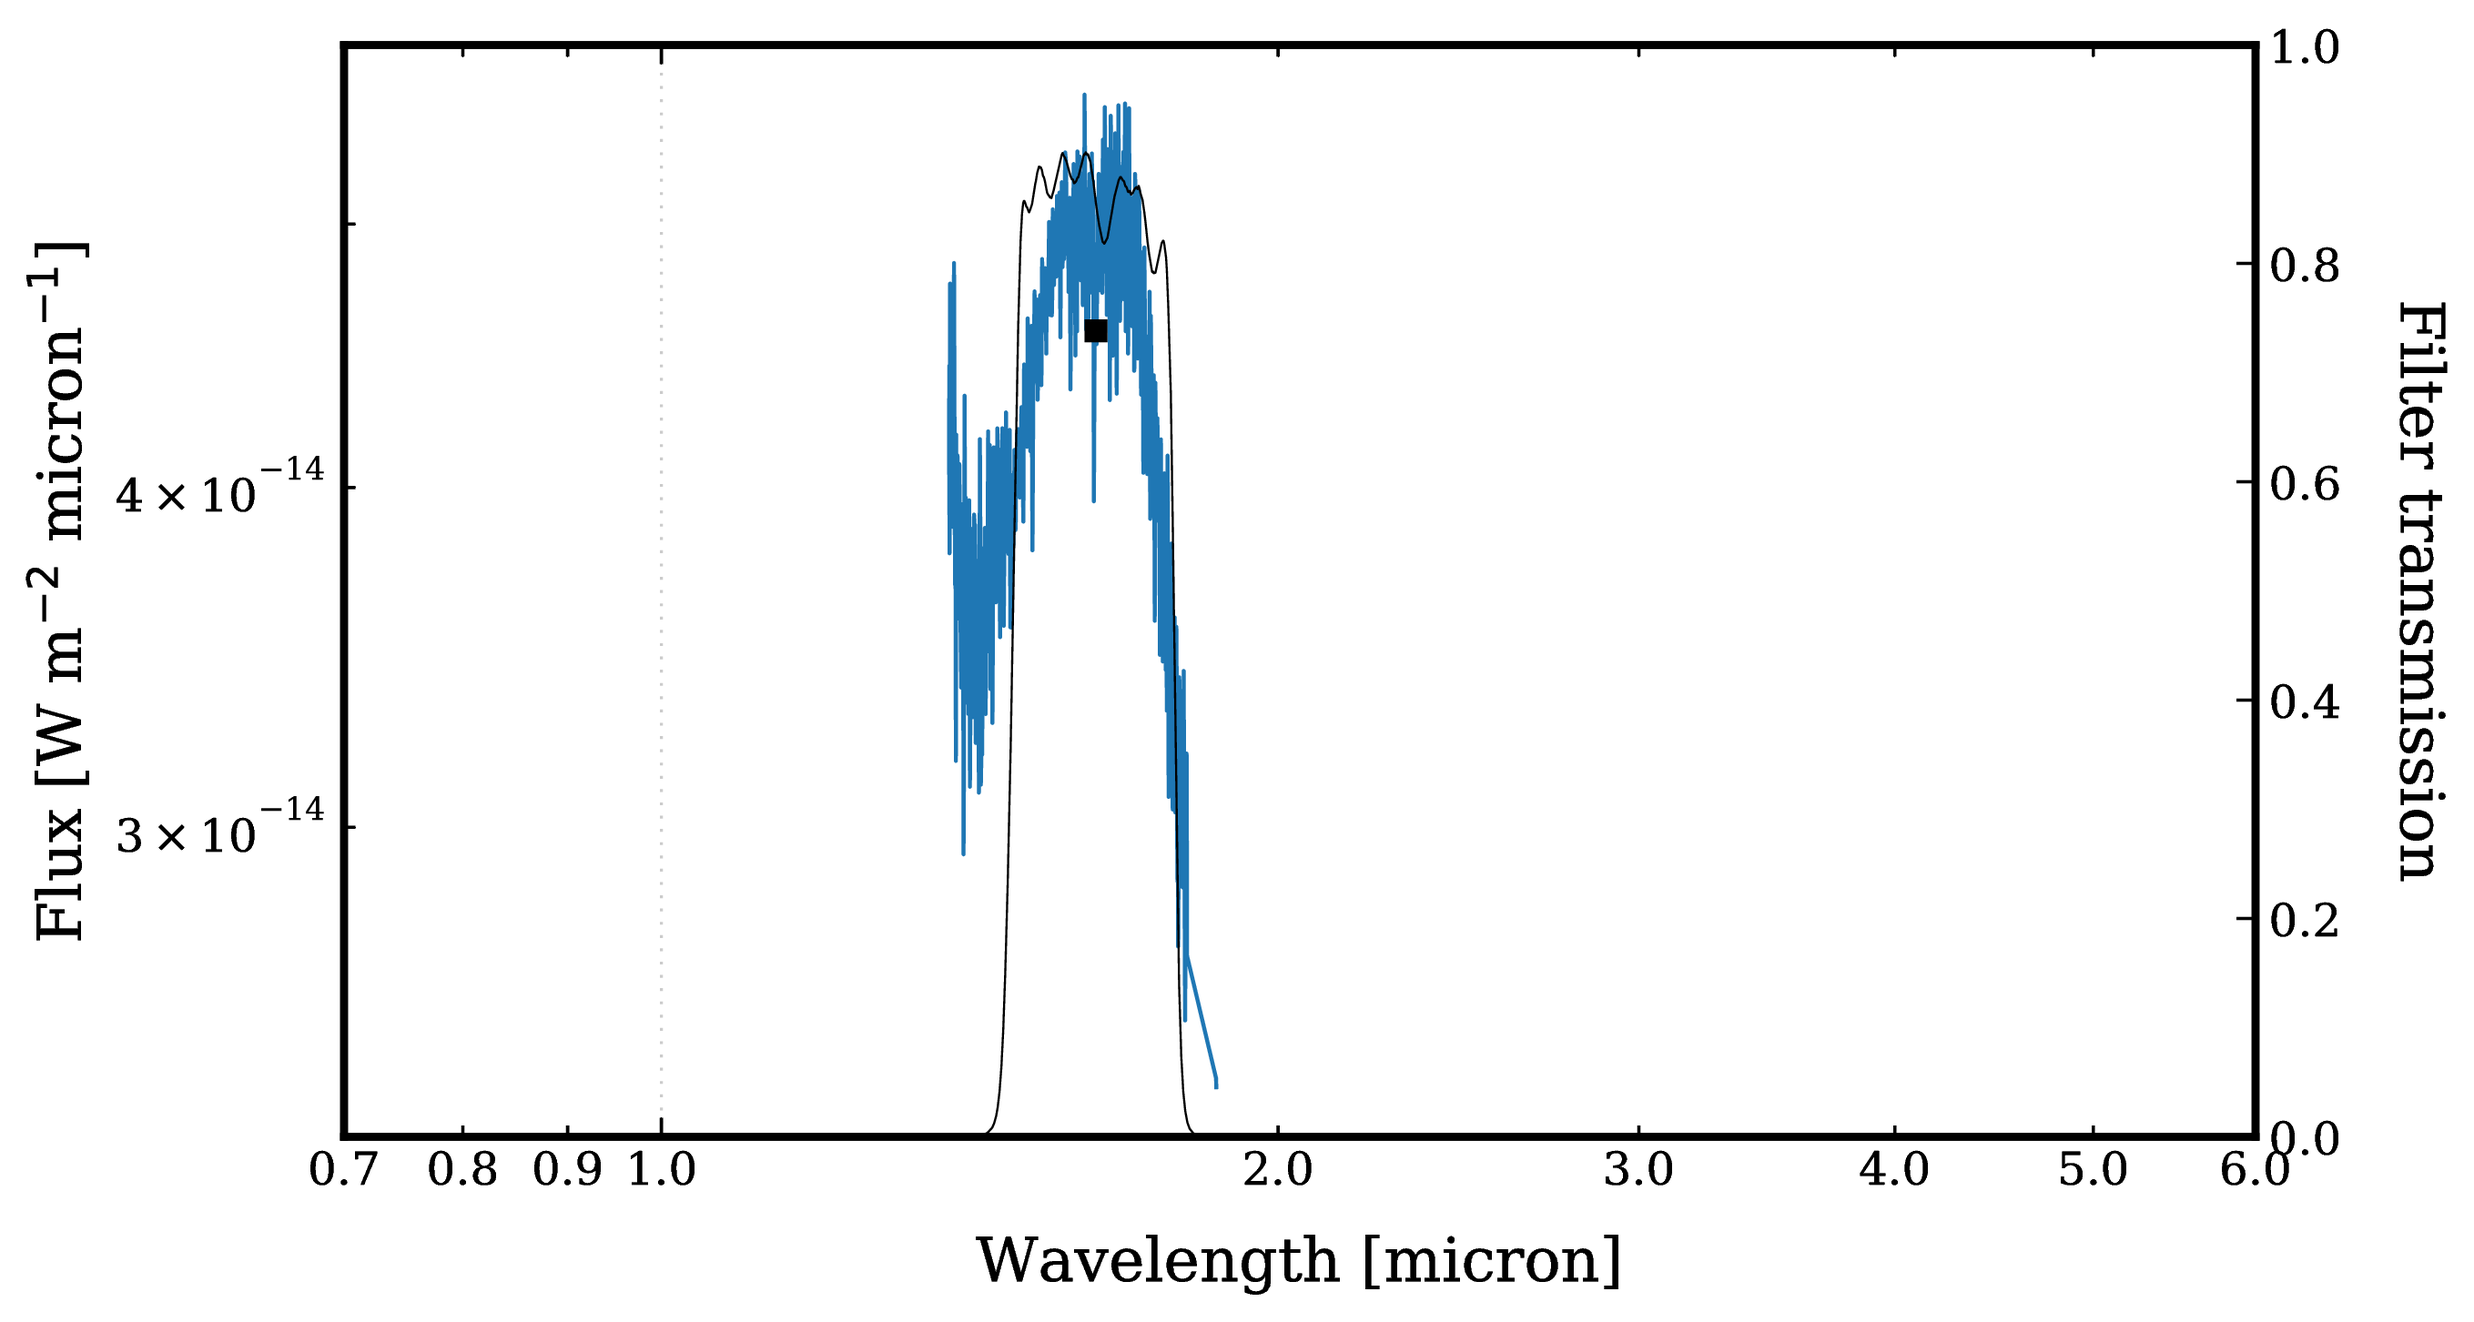
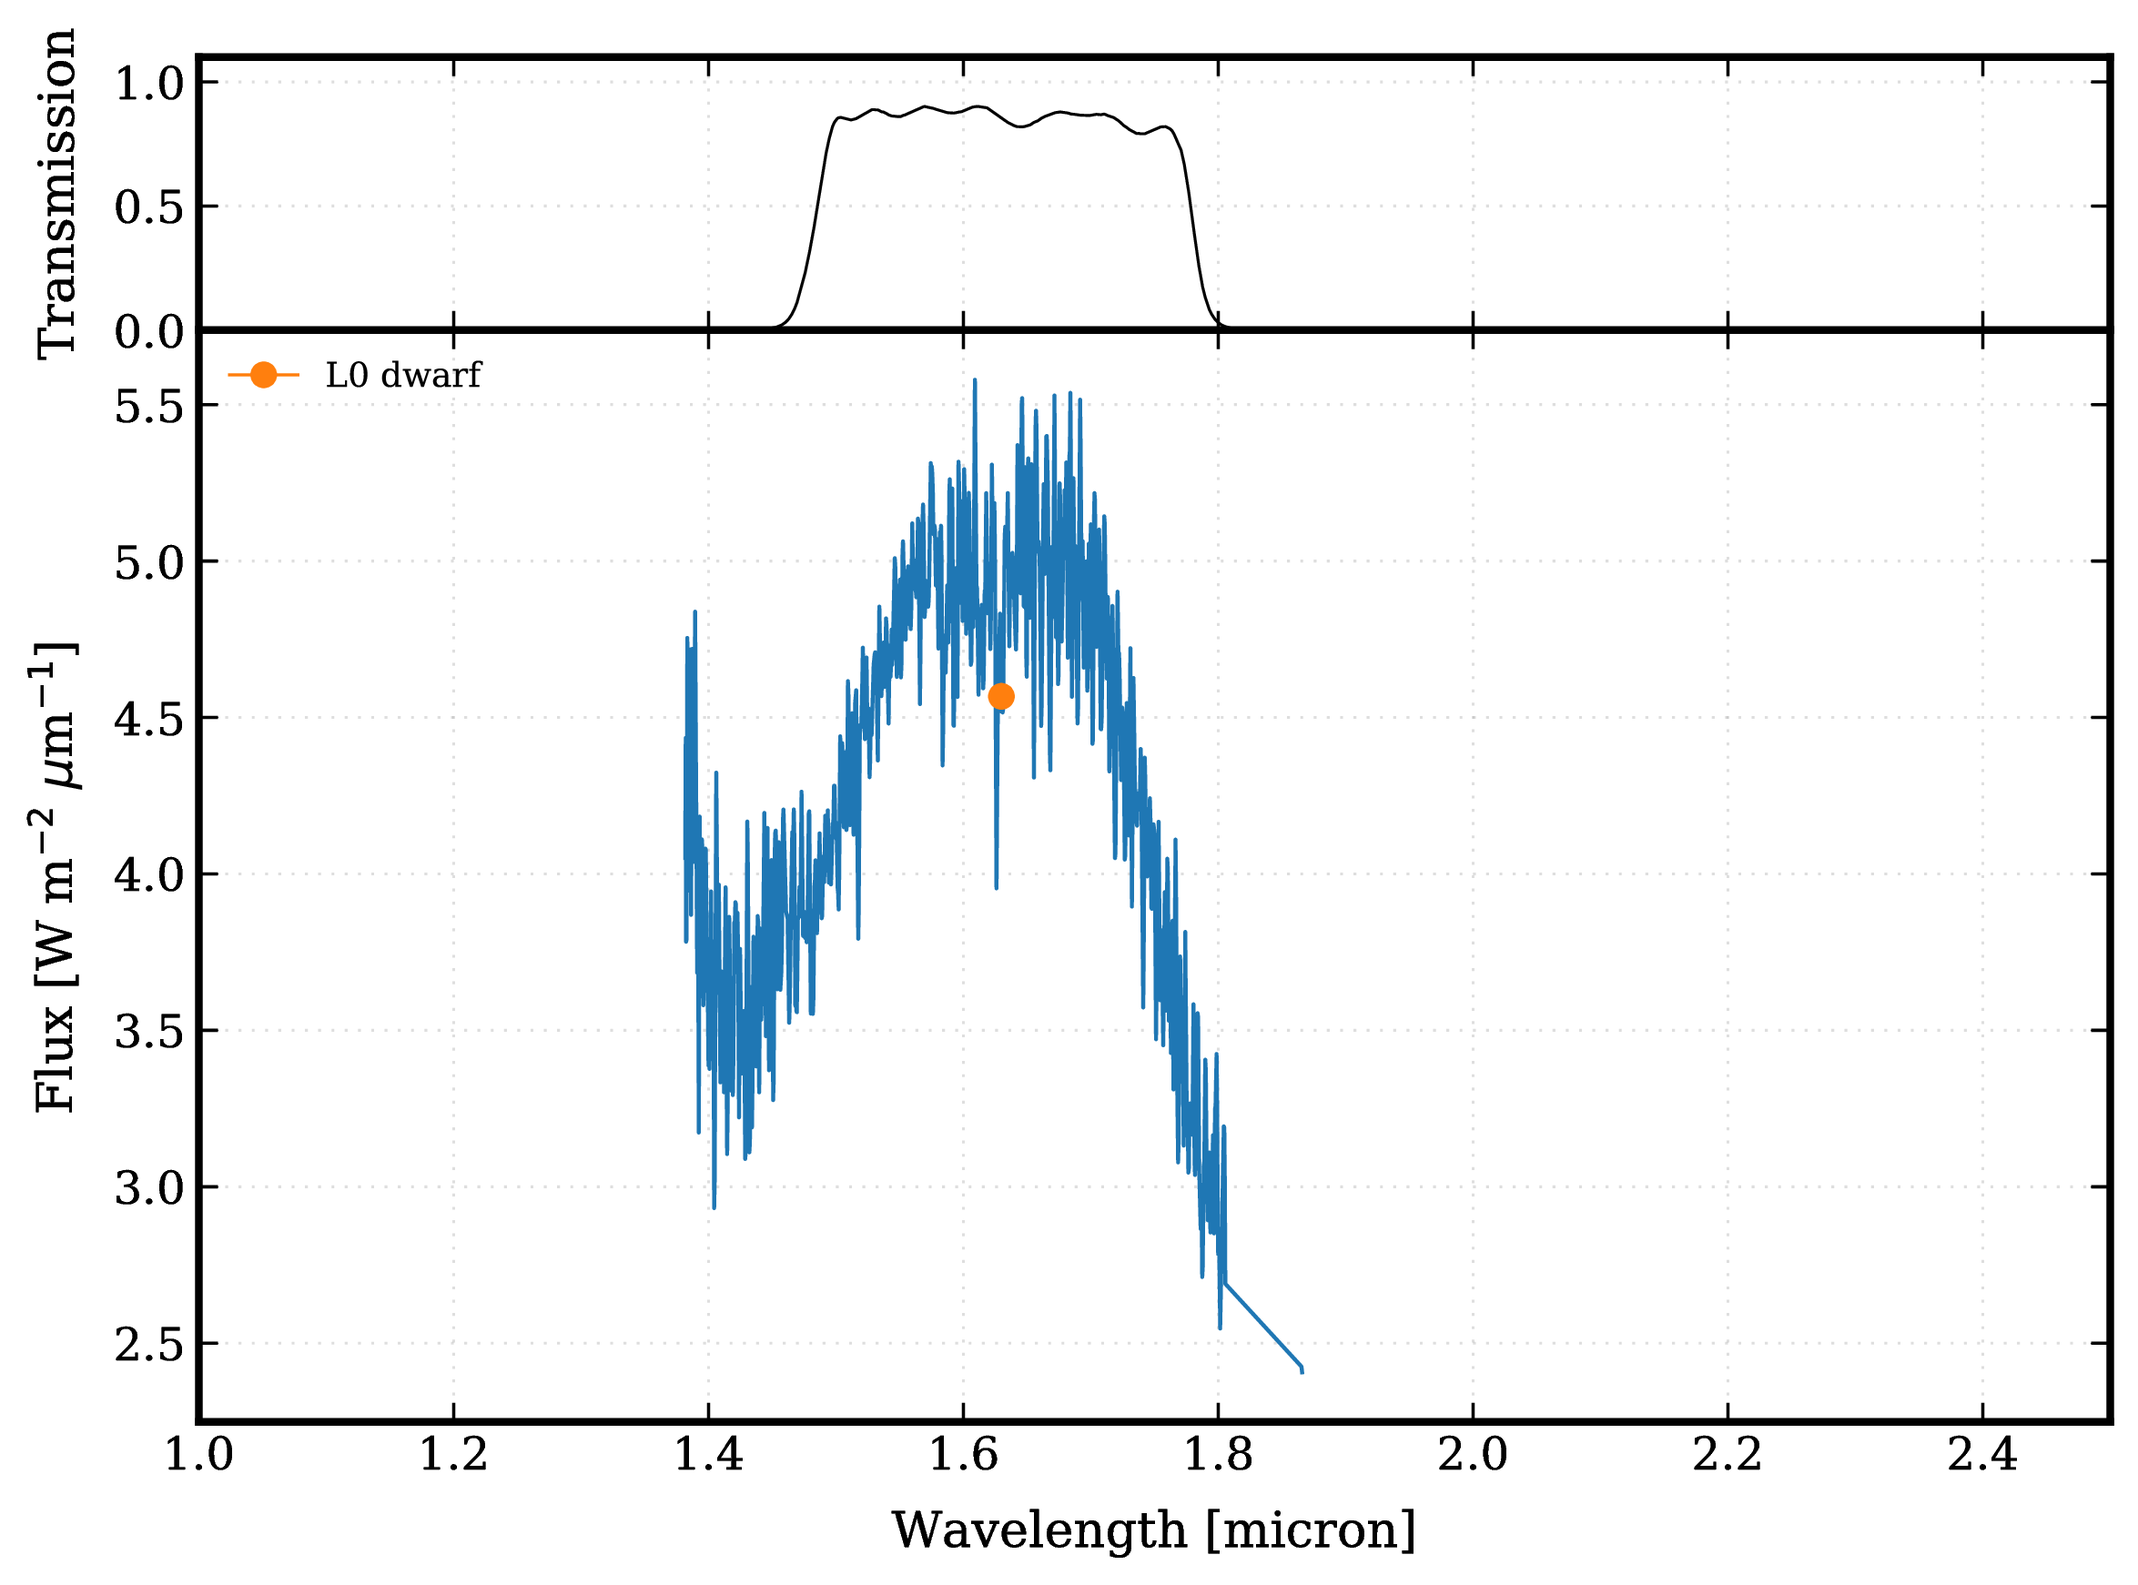
docs

Changed region(s): [[0.0, 0.031, 0.9945, 0.9911], [0.0622, 0.7123, 0.0932, 0.7743], [0.0622, 0.8362, 0.0932, 0.8672]]

diff --git a/species/read/read_colormag.py b/species/read/read_colormag.py
@@ -130,18 +130,18 @@ class ReadColorColor:
 
     def __init__(self,
                  library,
-                 filters_colors):
+                 filters):
         """
         :param library: Photometric libraries.
         :type library: tuple(str, )
-        :param filters_colors:
-        :type filters_colors: tuple(tuple(str, str), tuple(str, str))
+        :param filters:
+        :type filters: tuple(tuple(str, str), tuple(str, str))
 
         :return: None
         """
 
         self.library = library
-        self.filters_colors = filters_colors
+        self.filters = filters
 
         config_file = os.path.join(os.getcwd(), 'species_config.ini')
 
@@ -190,10 +190,10 @@ class ReadColorColor:
                 flag = flag_tmp
                 indices = indices_tmp
 
-                mag1 = np.asarray(h5_file['photometry/'+item+'/'+self.filters_colors[0][0]])
-                mag2 = np.asarray(h5_file['photometry/'+item+'/'+self.filters_colors[0][1]])
-                mag3 = np.asarray(h5_file['photometry/'+item+'/'+self.filters_colors[1][0]])
-                mag4 = np.asarray(h5_file['photometry/'+item+'/'+self.filters_colors[1][1]])
+                mag1 = np.asarray(h5_file['photometry/'+item+'/'+self.filters[0][0]])
+                mag2 = np.asarray(h5_file['photometry/'+item+'/'+self.filters[0][1]])
+                mag3 = np.asarray(h5_file['photometry/'+item+'/'+self.filters[1][0]])
+                mag4 = np.asarray(h5_file['photometry/'+item+'/'+self.filters[1][1]])
 
             else:
                 distance_tmp = np.asarray(h5_file['photometry/'+item+'/distance']) # [pc]
@@ -205,10 +205,10 @@ class ReadColorColor:
                 flag = np.concatenate((flag, flag_tmp), axis=0)
                 indices = np.concatenate((indices, indices_tmp), axis=0)
 
-                mag1_tmp = np.asarray(h5_file['photometry/'+item+'/'+self.filters_colors[0][0]])
-                mag2_tmp = np.asarray(h5_file['photometry/'+item+'/'+self.filters_colors[0][1]])
-                mag3_tmp = np.asarray(h5_file['photometry/'+item+'/'+self.filters_colors[1][0]])
-                mag4_tmp = np.asarray(h5_file['photometry/'+item+'/'+self.filters_colors[1][1]])
+                mag1_tmp = np.asarray(h5_file['photometry/'+item+'/'+self.filters[0][0]])
+                mag2_tmp = np.asarray(h5_file['photometry/'+item+'/'+self.filters[0][1]])
+                mag3_tmp = np.asarray(h5_file['photometry/'+item+'/'+self.filters[1][0]])
+                mag4_tmp = np.asarray(h5_file['photometry/'+item+'/'+self.filters[1][1]])
 
                 mag1 = np.concatenate((mag1, mag1_tmp), axis=0)
                 mag2 = np.concatenate((mag2, mag2_tmp), axis=0)
@@ -223,7 +223,7 @@ class ReadColorColor:
         return box.create_box(boxtype='colorcolor',
                               library=self.library,
                               object_type=object_type,
-                              filters_colors=self.filters_colors,
-                              color1=color[indices],
-                              color2=mag[indices],
+                              filters=self.filters,
+                              color1=color1[indices],
+                              color2=color2[indices],
                               sptype=sptype[indices])

diff --git a/species/plot/plot_spectrum.py b/species/plot/plot_spectrum.py
@@ -25,7 +25,7 @@ plt.rc('axes', edgecolor='black', linewidth=2)
 def plot_spectrum(boxes,
                   filters,
                   output,
-                  colors,
+                  colors=None,
                   residuals=None,
                   xlim=None,
                   ylim=None,
@@ -267,11 +267,18 @@ def plot_spectrum(boxes,
                 data = np.array(flux, dtype=np.float64)
                 masked = np.ma.array(data, mask=np.isnan(data))
 
-                ax1.plot(wavelength, masked/scaling, lw=0.4, color=colors[j], alpha=0.5, zorder=3)
+                if colors:
+                    ax1.plot(wavelength, masked/scaling, lw=0.4, color=colors[j], alpha=0.5, zorder=3)
+                else:
+                    ax1.plot(wavelength, masked/scaling, lw=0.4, alpha=0.5, zorder=3)
 
         elif isinstance(boxitem, box.PhotometryBox):
-            ax1.plot(boxitem.wavelength, boxitem.flux/scaling, marker=next(marker), ms=6, \
-                     color=colors[j], label=boxitem.name, zorder=5)
+            if colors:
+                ax1.plot(boxitem.wavelength, boxitem.flux/scaling, marker=next(marker), ms=6, \
+                         color=colors[j], label=boxitem.name, zorder=5)
+            else:
+                ax1.plot(boxitem.wavelength, boxitem.flux/scaling, marker=next(marker), ms=6, \
+                         label=boxitem.name, zorder=5)
 
         elif isinstance(boxitem, box.ObjectBox):
             for item in boxitem.flux:

diff --git a/species/core/box.py b/species/core/box.py
@@ -27,6 +27,15 @@ def create_box(boxtype, **kwargs):
         box.magnitude = kwargs['magnitude']
         box.sptype = kwargs['sptype']
 
+    if boxtype == 'colorcolor':
+        box = ColorColorBox()
+        box.library = kwargs['library']
+        box.object_type = kwargs['object_type']
+        box.filters = kwargs['filters']
+        box.color1 = kwargs['color1']
+        box.color2 = kwargs['color2']
+        box.sptype = kwargs['sptype']
+
     elif boxtype == 'model':
         box = ModelBox()
         box.model = kwargs['model']
@@ -86,6 +95,24 @@ class ColorMagBox:
         self.filter_mag = None
         self.color = None
         self.magnitude = None
+        self.sptype = None
+
+
+class ColorColorBox:
+    """
+    Text
+    """
+
+    def __init__(self):
+        """
+        :return:
+        """
+
+        self.library = None
+        self.object_type = None
+        self.filters = None
+        self.color1 = None
+        self.color2 = None
         self.sptype = None
 
 

diff --git a/species/read/read_spectrum.py b/species/read/read_spectrum.py
@@ -9,7 +9,8 @@ import configparser
 import h5py
 import numpy as np
 
-from species.core import box, constants
+from species.core import box
+from species.core import constants as con
 from species.data import database
 from species.read import read_filter
 
@@ -43,10 +44,10 @@ def get_planck(temperature,
     wl_points = np.asarray(wl_points[:-1]) # [micron]
     wl_points *= 1e-6 # [m]
 
-    planck1 = 2.*constants.PLANCK*constants.LIGHT**2/wl_points**5
-    planck2 = np.exp(constants.PLANCK*constants.LIGHT/(wl_points*constants.BOLTZMANN*temperature)) - 1.
+    planck1 = 2.*con.PLANCK*con.LIGHT**2/wl_points**5
+    planck2 = np.exp(con.PLANCK*con.LIGHT/(wl_points*con.BOLTZMANN*temperature)) - 1.
 
-    flux = 4.*math.pi * (radius*constants.R_JUP/(distance*constants.PARSEC))**2 * planck1/planck2 # [W m-2 m-1]
+    flux = 4.*math.pi * (radius*con.R_JUP/(distance*con.PARSEC))**2 * planck1/planck2 # [W m-2 m-1]
     flux *= 1e-6 # [W m-2 micron-1]
 
     wl_points *= 1e6 # [micron]

diff --git a/species/analysis/photometry.py b/species/analysis/photometry.py
@@ -136,7 +136,7 @@ class SyntheticPhotometry:
 
         return photometry
 
-    def spectrum_to_magnitude(self, wavelength, flux_density, distance):
+    def spectrum_to_magnitude(self, wavelength, flux_density, distance=None):
         """
         :param wavelength: Wavelength (micron).
         :type wavelength: numpy.ndarray

diff --git a/species/plot/plot_color.py b/species/plot/plot_color.py
@@ -142,8 +142,7 @@ def plot_color_magnitude(colorbox,
     sys.stdout.flush()
 
 
-def plot_color_color(colors,
-                     sptype,
+def plot_color_color(colorbox,
                      objects,
                      label_x,
                      label_y,

diff --git a/docs/examples.rst b/docs/examples.rst
@@ -6,7 +6,7 @@ Examples
 Configuration file
 ------------------
 
-First, a configuration file has to be created in the working folder, for example::
+A configuration file is required in the working folder, for example::
 
    [species]
    database = species_database.hdf5
@@ -20,13 +20,40 @@ Calculating the flux density for a given magnitude (and the other way around) is
 
    import species
 
-   species.SpeciesInit('./')
+   species.SpeciesInit("./")
 
-   synphot = species.SyntheticPhotometry('MKO/NSFCam.J')
+   synphot = species.SyntheticPhotometry("MKO/NSFCam.J")
+
    flux, error = synphot.magnitude_to_flux(19.04, 0.40)
    app_mag, _ = synphot.flux_to_magnitude(flux, None)
 
-L0 type spectrum
+   print("Apparent flux density [W m-2 micron-1] =", flux)
+   print("Apparent magnitude [mag] =", app_mag)
+
+Synthetic photometry of a Planck function
+-----------------------------------------
+
+To calculate synthetic photometry from a Planck function for a filter of JWST::
+
+   import species
+
+   species.SpeciesInit('./')
+
+   box = species.get_planck(temperature=200.,
+                            radius=1.0,
+                            distance=20.,
+                            wavelength=(1.0, 30.),
+                            specres=1000.)
+
+   synphot = species.SyntheticPhotometry('JWST/MIRI.F1000W')
+
+   phot = synphot.spectrum_to_photometry(box.wavelength, box.flux)
+   mag = synphot.spectrum_to_magnitude(box.wavelength, box.flux)
+
+   print('Apparent flux density [W m-2 micron-1] =', phot)
+   print('Apparent magnitude [mag] =', mag[0])
+
+Spectral library
 ----------------
 
 The following code will download the IRTF spectral library and added to the database. Synthetic photometry is then calculated for the first (L0 type) spectrum from the library at the MKO H filter. The spectrum slice is then plotted together with the filter profile and the photometry::
@@ -35,16 +62,27 @@ The following code will download the IRTF spectral library and added to the data
 
    species.SpeciesInit('./')
 
-   spectrum = species.ReadSpectrum('irtf', 'MKO/NSFCam.H')
-   specbox = spectrum.get_spectrum()
+   spectrum = species.ReadSpectrum(spectrum='irtf', filter_name='MKO/NSFCam.H')
+   specbox = spectrum.get_spectrum(sptype='L0')
 
-   synphot = species.SyntheticPhotometry('MKO/NSFCam.H')
-   phot = synphot.spectrum_to_photometry(wavelength[0, ], flux_density[0, ])
+   synphot = species.SyntheticPhotometry(filter_name='MKO/NSFCam.H')
 
-   transmission = species.ReadFilter('MKO/NSFCam.H')
+   phot = synphot.spectrum_to_photometry(wavelength=specbox.wavelength,
+                                         flux_density=specbox.flux)
+
+   transmission = species.ReadFilter(filter_name='MKO/NSFCam.H')
    wl_mean = transmission.mean_wavelength()
 
-   species.plot_spectrum(wavelength[0, ], flux_density[0, ], ('MKO/NSFCam.H', ), ((wl_mean, phot), ), 'photometry.pdf')
+   photbox = species.create_box(boxtype='photometry',
+                                name='L0 dwarf',
+                                wavelength=wl_mean,
+                                flux=phot)
+
+   species.plot_spectrum(boxes=(specbox, photbox),
+                         filters=('MKO/NSFCam.H', ),
+                         output='photometry.pdf',
+                         xlim=(1., 2.5),
+                         offset=(-0.08, -0.06))
 
 .. image:: _images/photometry.png
    :width: 80%
@@ -64,10 +102,18 @@ Here photometric data of 51 Eri b (Rajan et al. 2017) is added to the database. 
 
    object_cmd = ('51 Eri b', 'MKO/NSFCam.J', 'MKO/NSFCam.H', 'MKO/NSFCam.J')
 
-   colormag = species.ReadColorMagnitude(('vlm-plx', ), ('MKO/NSFCam.J', 'MKO/NSFCam.H'), 'MKO/NSFCam.J')
-   colorbox = colormag.get_color_magnitude('field')
+   colormag = species.ReadColorMagnitude(library=('vlm-plx', ),
+                                         filters_color=('MKO/NSFCam.J', 'MKO/NSFCam.H'),
+                                         filter_mag='MKO/NSFCam.J')
 
-   species.plot_color_magnitude(colorbox, (object_cmd, ), 'J - H [mag]', 'M$_\mathregular{J}$ [mag]', 'color_mag.pdf')
+   colorbox = colormag.get_color_magnitude(object_type='field')
+
+   species.plot_color_magnitude(colorbox=colorbox,
+                                objects=(object_cmd, ),
+                                label_x='J - H [mag]',
+                                label_y='M$_\mathregular{J}$ [mag]',
+                                output='color_mag.pdf')
+
 
 .. image:: _images/color_mag.png
    :width: 70%
@@ -84,9 +130,18 @@ In the last example, the DRIFT-PHOENIX atmospheric models are added to the datab
 
    filters = ('MKO/NSFCam.J', 'MKO/NSFCam.H', 'MKO/NSFCam.K', 'MKO/NSFCam.Lp', 'MKO/NSFCam.Mp')
 
-   model = species.ReadModel('drift-phoenix', (1.0, 5.0))
-   modelbox = model.get_model({'teff':1510., 'logg':4.1, 'feh':0.1}, ('gaussian', (1000, 200.)))
-   species.plot_spectrum((modelbox, ), filters, 'model1.pdf', None, offset=(-0.08, -0.07), xlim=(1., 5.), ylim=(2e4, 1.1e5))
+   model = species.ReadModel(model='drift-phoenix',
+                             wavelength=(1.0, 5.0))
+
+   modelbox = model.get_model(model_par={'teff':1510., 'logg':4.1, 'feh':0.1},
+                              sampling=('gaussian', (1000, 200.)))
+
+   species.plot_spectrum(boxes=(modelbox, ),
+                         filters=filters,
+                         output='model1.pdf',
+                         offset=(-0.08, -0.07),
+                         xlim=(1., 5.),
+                         ylim=(0., 1.1e5))
 
 .. image:: _images/model1.png
    :width: 80%
@@ -94,8 +149,14 @@ In the last example, the DRIFT-PHOENIX atmospheric models are added to the datab
 
 Or, a spectrum with the original spectral resolution can be obtained from the (discrete) model grid::
 
-   modelbox = model.get_data({'teff':1200., 'logg':4.0, 'feh':0., 'radius':1., 'distance':10.})
-   species.plot_spectrum((modelbox, ), filters, 'model2.pdf', None, offset=(-0.08, -0.07), xlim=(1., 5.), ylim=(0., 2.15e-15))
+   modelbox = model.get_data(model_par={'teff':1200., 'logg':4.0, 'feh':0., 'radius':1., 'distance':10.})
+
+   species.plot_spectrum(boxes=(modelbox, ),
+                         filters=filters,
+                         output='model2.pdf',
+                         offset=(-0.08, -0.07),
+                         xlim=(1., 5.),
+                         ylim=(0., 2.15e-15))
 
 .. image:: _images/model2.png
    :width: 80%
